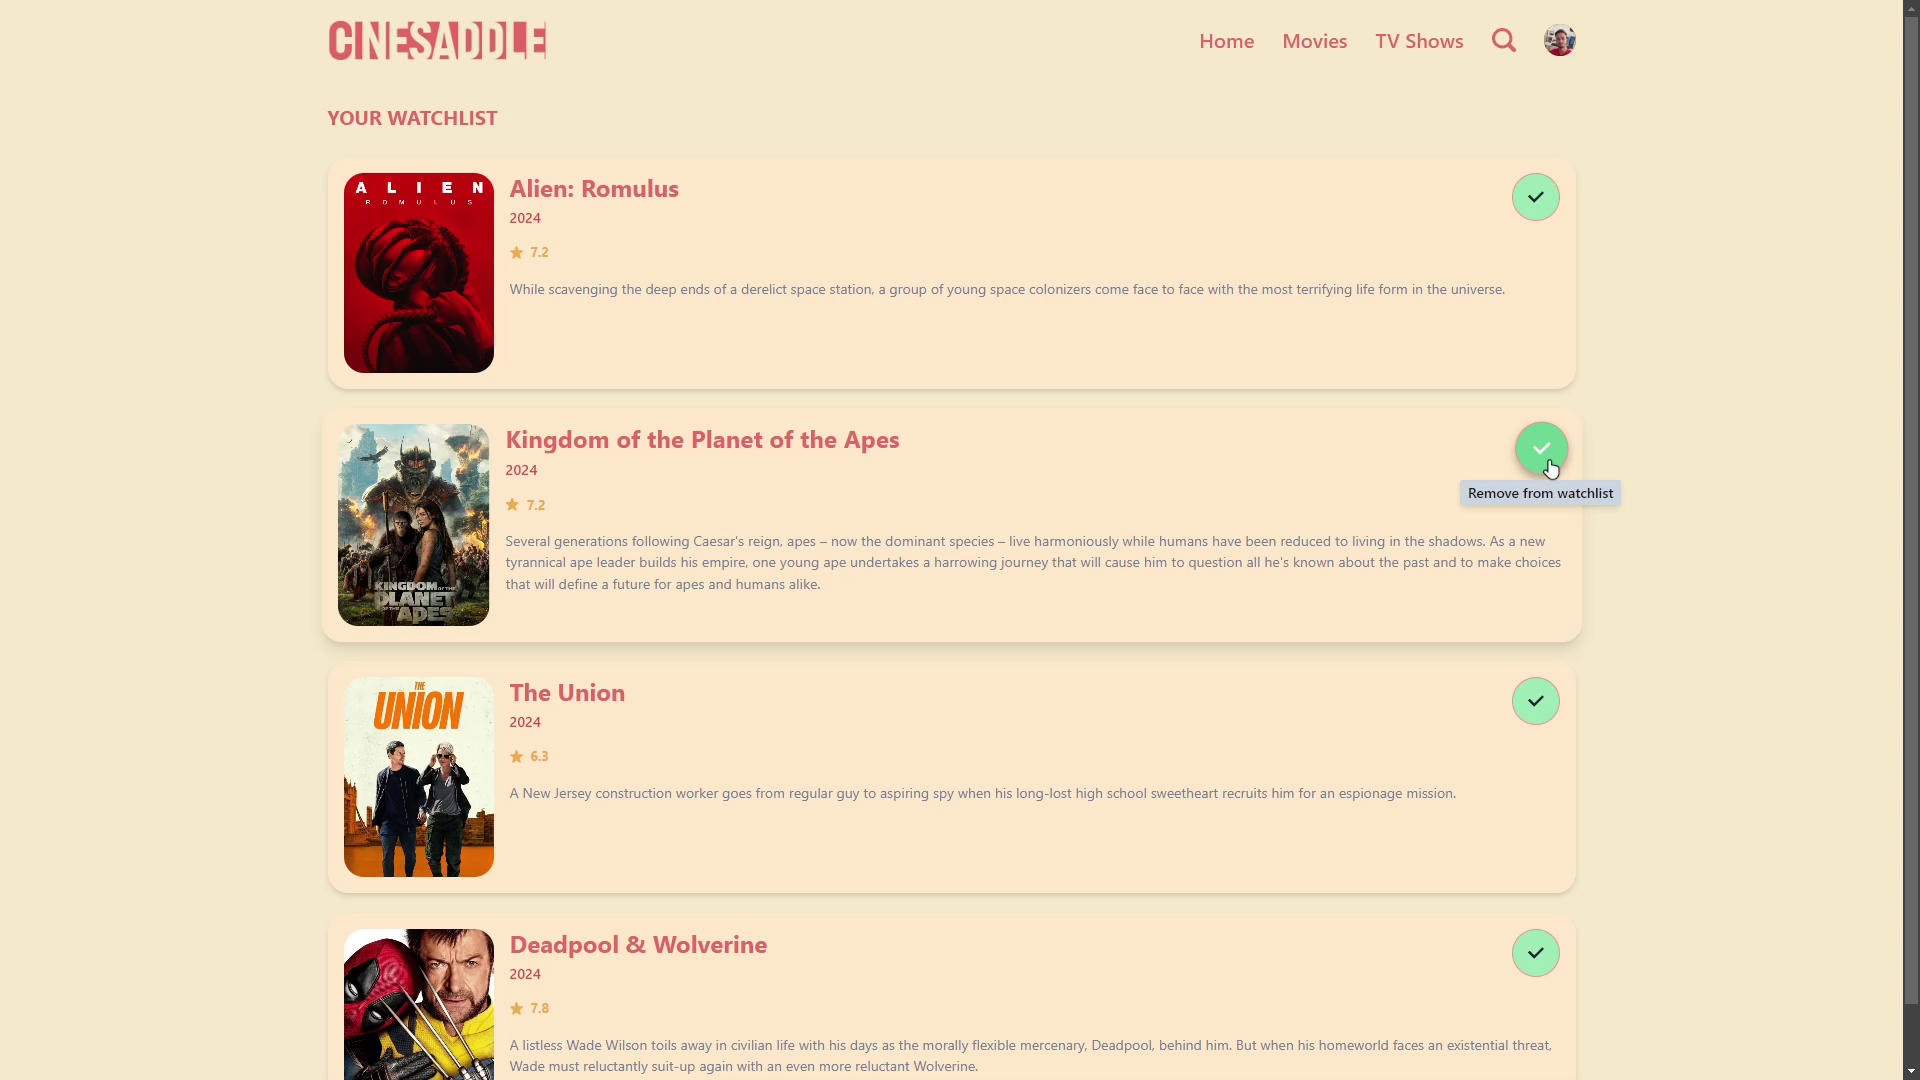
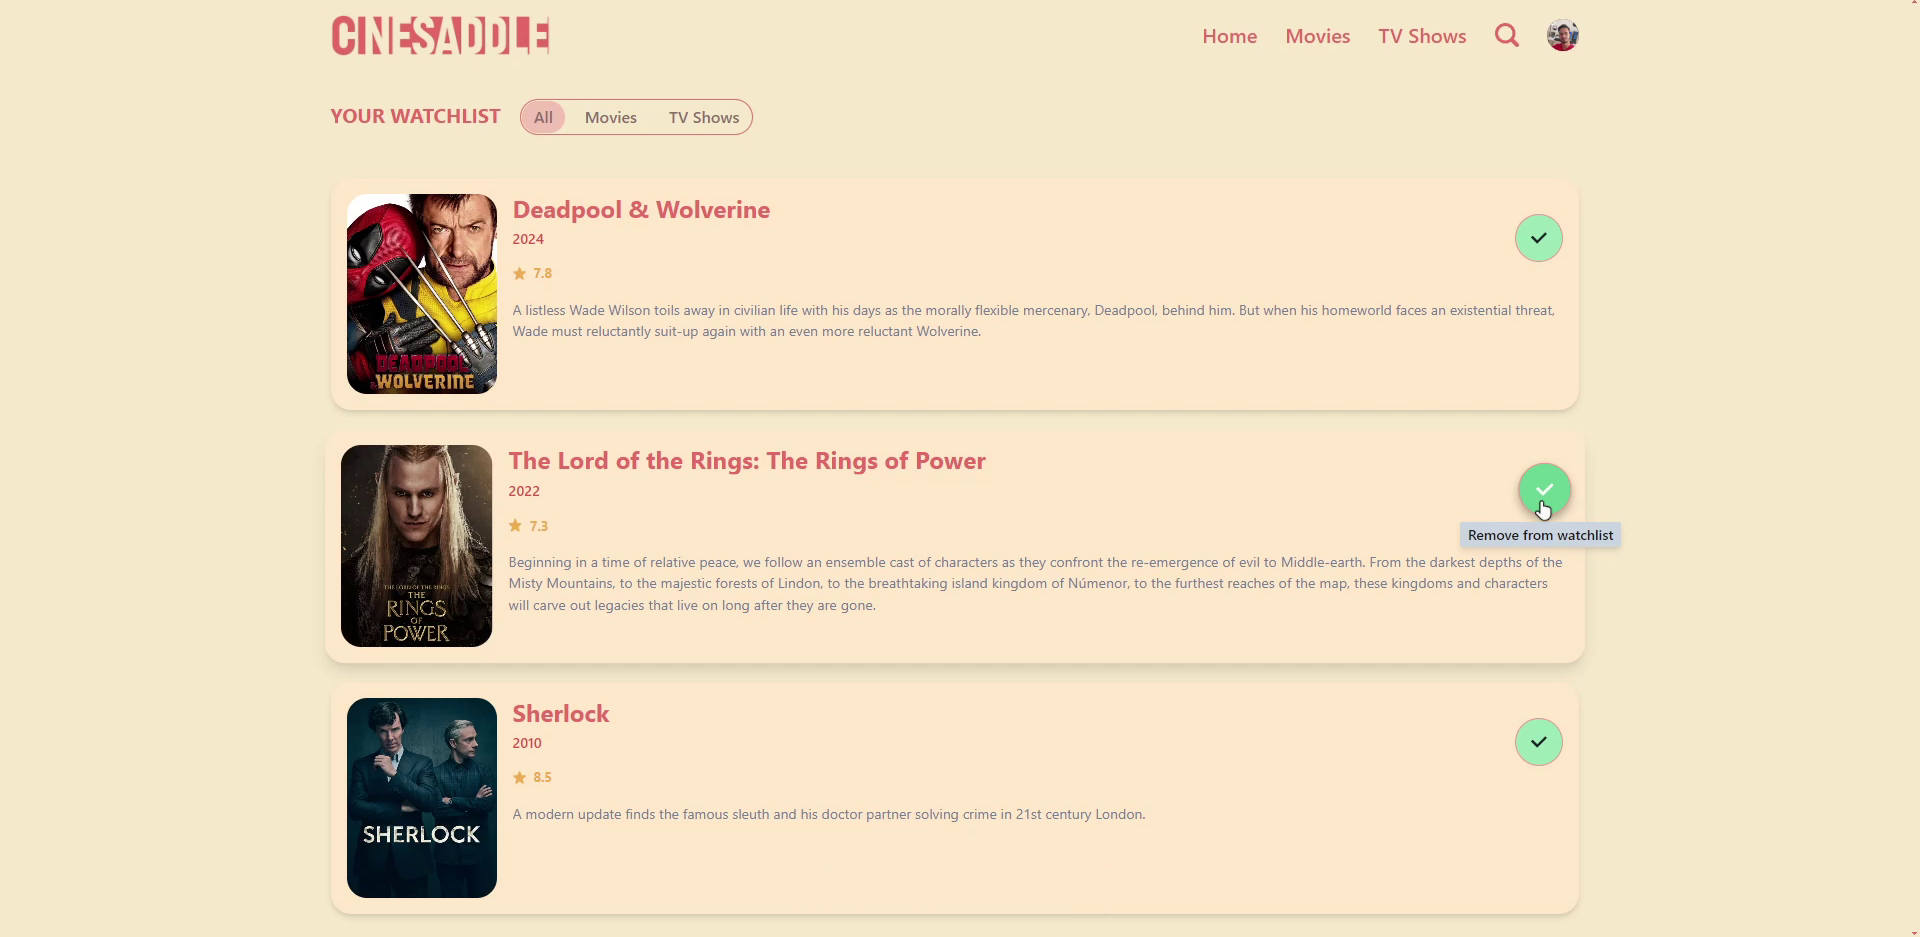
added filtering in watchlist

diff --git a/src/pages/Watchlist.jsx b/src/pages/Watchlist.jsx
@@ -1,21 +1,23 @@
 import { useState, useEffect } from "react";
 import { useFirestore } from "../services/firestore";
 import { useAuth } from "../context/useAuth";
-import { Container, Flex, Grid, Heading, Spinner } from "@chakra-ui/react";
+import { Container, Flex, Grid, Heading, Spinner, Box } from "@chakra-ui/react";
 import WatchlistCard from "../components/WatchlistCard";
 
 const Watchlist = () => {
   const { getWatchlist } = useFirestore();
   const { user } = useAuth();
   const [watchlist, setWatchlist] = useState([]);
+  const [filteredWatchlist, setFilteredWatchlist] = useState([]);
   const [isLoading, setIsLoading] = useState(true);
+  const [filter, setFilter] = useState("all"); // 'all', 'movie', or 'tv'
 
   useEffect(() => {
     if (user?.uid) {
       getWatchlist(user?.uid)
         .then((data) => {
           setWatchlist(data);
-          console.log(data, "data");
+          setFilteredWatchlist(data);
         })
         .catch((err) => {
           console.log(err, "error");
@@ -25,6 +27,14 @@ const Watchlist = () => {
         });
     }
   }, [user?.uid, getWatchlist]);
+
+  useEffect(() => {
+    if (filter === "all") {
+      setFilteredWatchlist(watchlist);
+    } else {
+      setFilteredWatchlist(watchlist.filter(item => item.type === filter));
+    }
+  }, [filter, watchlist]);
 
   return (
     <Container maxW={"container.xl"}>
@@ -37,8 +47,105 @@ const Watchlist = () => {
         >
           Your Watchlist
         </Heading>
+
+        <Flex
+          alignItems="center"
+          gap={{ base: "1", sm: "2" }}
+          border="1px solid transparent"
+          borderRadius="20px"
+          boxShadow="0 0 1px #e87c79, 0 0 0 1px #e87c79"
+          _hover={{ boxShadow: "0 0 4px 2px #e87c79" }}
+          transition="background-color 0.61s ease, box-shadow 0.3s ease"
+          position="relative"
+          mb={4}
+        >
+          <Box
+            as="button"
+            px={{ base: "2", sm: "3" }}
+            py={{ base: "0.5", sm: "1" }}
+            borderRadius="20px"
+            color="#8e6f6f"
+            fontWeight="semibold"
+            fontSize={{ base: "sm", sm: "md" }}
+            bg={filter === 'all' ? "#f3c1b4" : ""}
+            onClick={() => setFilter("all")}
+            transition="background-color 0.61s ease, box-shadow 0.3s ease"
+            position="relative"
+            overflow="hidden"
+          >
+            All
+            <Box
+              position="absolute"
+              bottom="0"
+              left="0"
+              width="100%"
+              height="100%"
+              bg="#f3c1b4"
+              borderRadius="20px"
+              zIndex="-1"
+              transition="transform 0.61s ease"
+              transform={filter === 'all' ? "translateX(0)" : "translateX(100%)"}
+            />
+          </Box>
+          <Box
+            as="button"
+            px={{ base: "2", sm: "3" }}
+            py={{ base: "0.5", sm: "1" }}
+            borderRadius="20px"
+            color="#8e6f6f"
+            fontWeight="semibold"
+            fontSize={{ base: "sm", sm: "md" }}
+            bg={filter === 'movie' ? "#f3c1b4" : ""}
+            onClick={() => setFilter("movie")}
+            transition="background-color 0.61s ease, box-shadow 0.3s ease"
+            position="relative"
+            overflow="hidden"
+          >
+            Movies
+            <Box
+              position="absolute"
+              bottom="0"
+              left="0"
+              width="100%"
+              height="100%"
+              bg="#f3c1b4"
+              borderRadius="20px"
+              zIndex="-1"
+              transition="transform 0.61s ease"
+              transform={filter === 'movie' ? "translateX(0)" : "translateX(100%)"}
+            />
+          </Box>
+          <Box
+            as="button"
+            px={{ base: "2", sm: "3" }}
+            py={{ base: "0.5", sm: "1" }}
+            borderRadius="20px"
+            color="#8e6f6f"
+            fontWeight="semibold"
+            fontSize={{ base: "sm", sm: "md" }}
+            bg={filter === 'tv' ? "#f3c1b4" : ""}
+            onClick={() => setFilter("tv")}
+            transition="background-color 0.61s ease, box-shadow 0.3s ease"
+            position="relative"
+            overflow="hidden"
+          >
+            TV Shows
+            <Box
+              position="absolute"
+              bottom="0"
+              left="0"
+              width="100%"
+              height="100%"
+              bg="#f3c1b4"
+              borderRadius="20px"
+              zIndex="-1"
+              transition="transform 0.61s ease"
+              transform={filter === 'tv' ? "translateX(0)" : "translateX(-100%)"}
+            />
+          </Box>
+        </Flex>
       </Flex>
-     
+
       {isLoading && (
         <Flex
           justify={"center"}
@@ -49,7 +156,7 @@ const Watchlist = () => {
           <Spinner size={"xl"} color="#e56c68" />
         </Flex>
       )}
-      {!isLoading && watchlist?.length === 0 && (
+      {!isLoading && filteredWatchlist.length === 0 && (
         <Flex
           justify={"center"}
           alignItems={"center"}
@@ -61,14 +168,14 @@ const Watchlist = () => {
           </Heading>
         </Flex>
       )}
-      {!isLoading && watchlist?.length > 0 && (
+      {!isLoading && filteredWatchlist.length > 0 && (
         <Grid
           templateColumns={{
             base: "1fr",
           }}
           gap={"5"}
         >
-          {watchlist?.map((item) => (
+          {filteredWatchlist?.map((item) => (
             <WatchlistCard
               key={item?.id}
               item={item}

diff --git a/src/index.css b/src/index.css
@@ -1,3 +1,5 @@
+
+
 body {
   overflow-y: scroll; /* Always show vertical scrollbar */
 }
